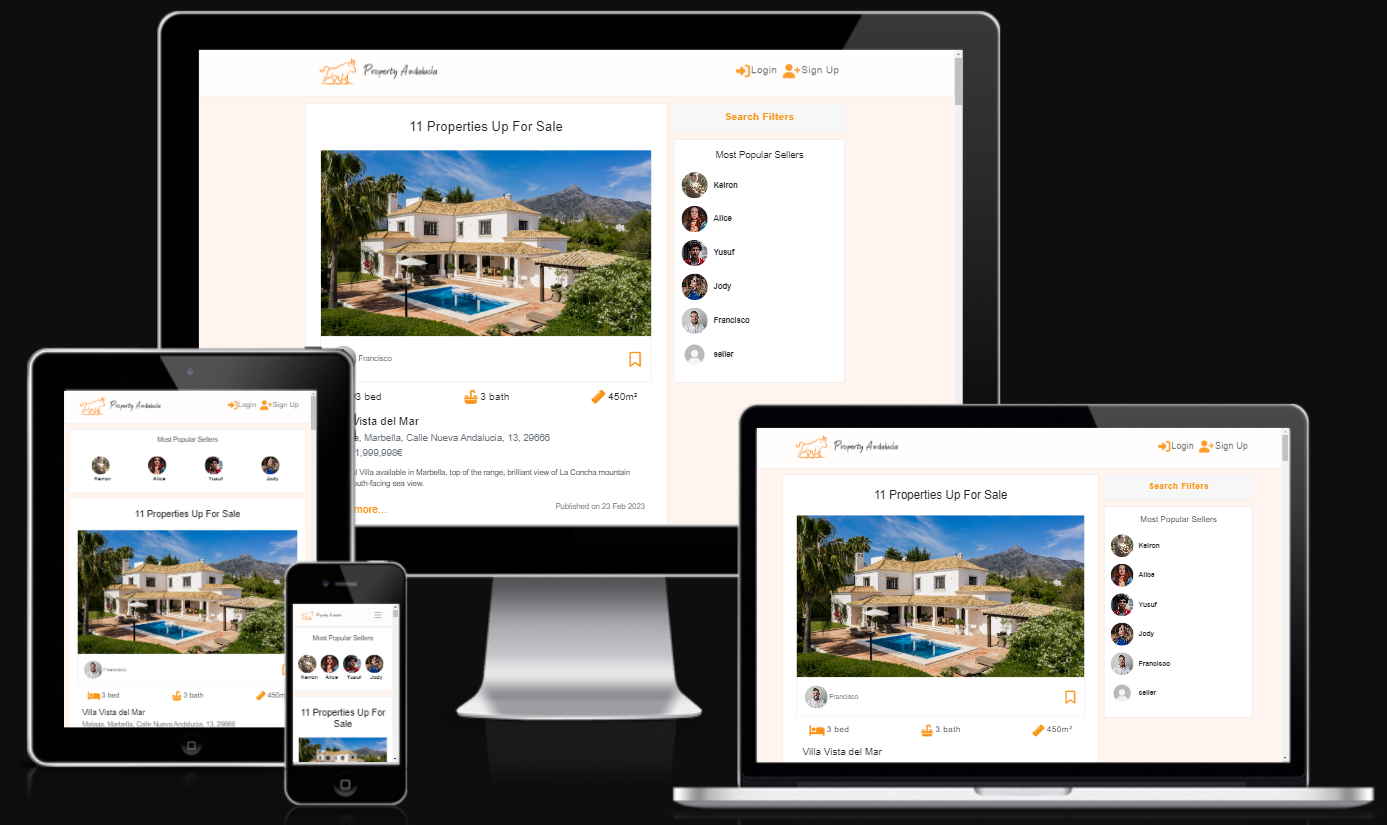
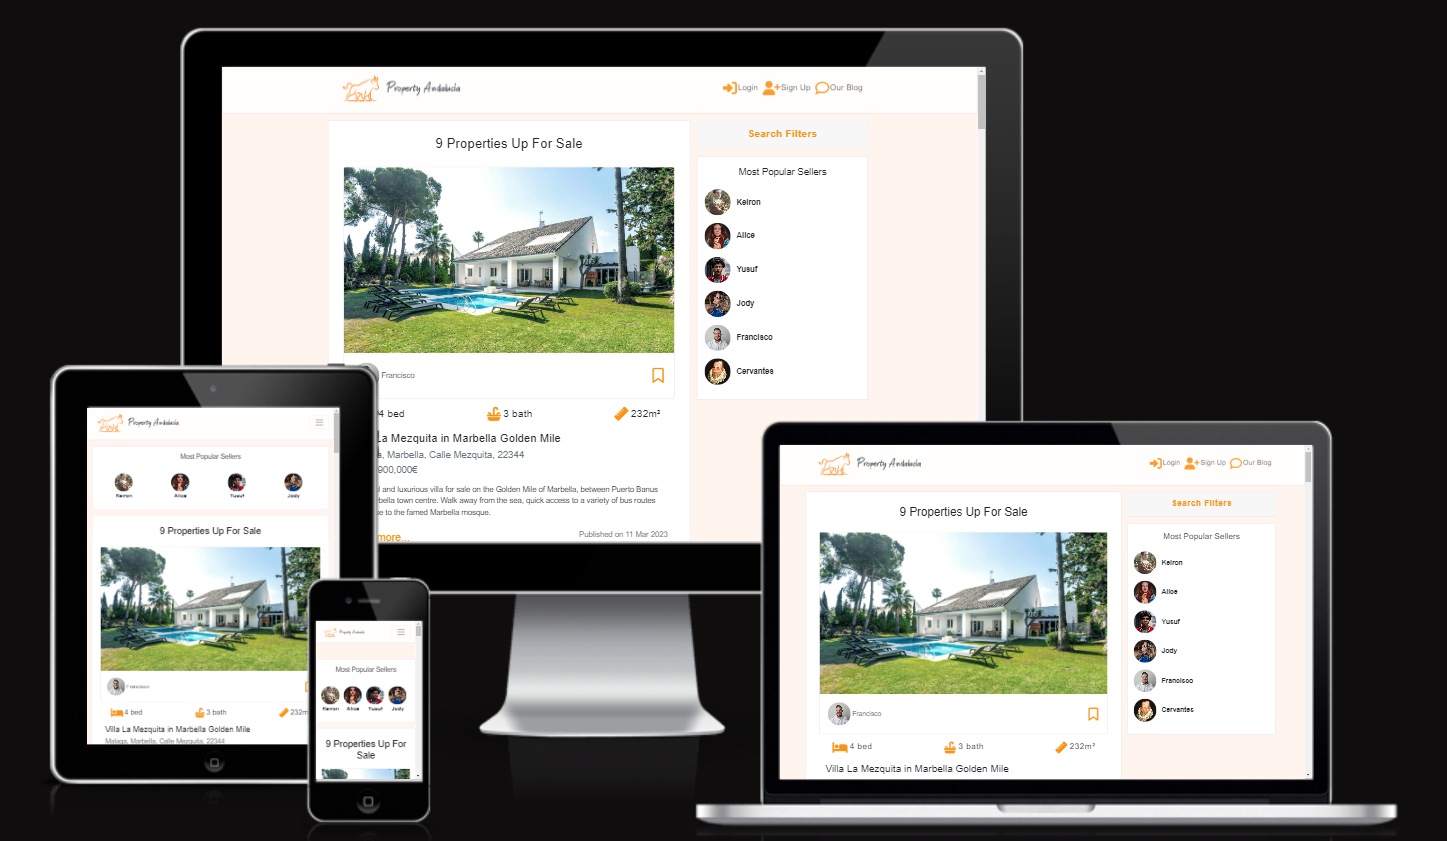
Readme commit: update with blog feature content

Changed region(s): [[0.0, 0.0, 0.9921, 1.0]]

diff --git a/README.md b/README.md
@@ -2,7 +2,7 @@
 
 ![am-i-responsive](/documentation/readme_images/design/am%20i%20responsive.png)
 
-Property Andalucia is a property marketplace platform designed for selling and buying property. It allows the user to create their own listings and sell their property. As a visitor you can also search for property using a variety of search filter methods. The users can register for the website as a seller or a buyer, and gain access to further features such as saving posts and following other users.
+Property Andalucia is a property marketplace platform designed for selling and buying property. It allows the user to create their own listings and sell their property. As a visitor you can also search for property using a variety of search filter methods. The users can register for the website as a seller or a buyer, and gain access to further features such as saving posts and following other users. It also contains a blog feature where users who are staff can published blog posts.
 
 This part of the project serves as the Frontend, created using React.js, which connects and interacts with the backend API through HTTP requests.
 
@@ -45,6 +45,11 @@ This part of the project serves as the Frontend, created using React.js, which c
         <li>[Follow Feed](#follow-feed)</li>
         <li>[Profile](#profile)</li>
         <li>[Edit Profile Form](#edit-profile-form)</li>
+        <li>[Blog Creation Form](#blog-creation-form)</li>
+        <li>[Blog Edit Form](#blog-edit-form)</li>
+        <li>[Blog List View](#blog-list-view)</li>
+        <li>[Search Feed](#search-feed)</li>
+        <li>[Blog Edit Form](#blog-edit-form)</li>
         <li>[Username and Password Forms](#username-and-password-forms)</li>
         <li>[No Results Found](#no-results-found)</li>
         </ul>
@@ -121,7 +126,7 @@ Epics, User Stories and Backend Tasks can be found in this GitHub repository pro
 
 ## **Web Structure**
 
-* Website is structured into 11 principal pages
+* Website is structured into 15 principal pages
 * All pages extend and produce a consistent style across the application
 * Pages are the following:
 
@@ -134,9 +139,14 @@ Epics, User Stories and Backend Tasks can be found in this GitHub repository pro
 | **Feed** | A list of all posts of followed accounts |
 | **Saved** | A list of all posts saved by the current user |
 | **Add Property** | A large form page where sellers can fill out their property data |
-| **Edit Property** | A large form page where sellers can modify pre-existing fields
+| **Edit Property** | A large form page where sellers can modify pre-existing fields |
+| **Post List** | A list view of the property posts featuring concise information |
 | **Post Detail** | A detailed view of the post featuring additional information |
 | **Search Filters** | A UI component where users are able to access a variety of search filter methods |
+| **Add Blog Post** | A form page where staff can create a blog post |
+| **Edit Blog Post** | A form page where staff can modify pre-existing fields for their blog post |
+| **Blog Post List** | A list view of all blog posts with a shortened description and search tab |
+| **Blog Detail** | A detailed view of the blog post featuring full description |
 | **User Profile** | A profile dashboard displaying information and user posts |
 | **Edit Profile** | A large form page where users can modify pre-existing input |
 | **Edit Username** | A form where the user can change their username |
@@ -177,11 +187,14 @@ The interactive icons found across the web application were imported from [Font 
 * State changes links depending on logged-in status versus logged-out
     * If a user signs up as a seller they will be able to see the link to 'Add Property', as well as the other collective iconed links: view 'Saved' properties, view property 'Feed' (property listed by other followed sellers), their profile and the 'Logout' icon.
     * If a user signs up as a non-seller they will be able to see all the aforementioned links save the 'Add Property' icon.
+    * If a user is staff of Property Andalucia, they will be able to see the 'Create post' icon.
+    * Additionally if a user is both staff and seller, they have access to both 'Add Property' and 'Create post' icons.
 * The brand logo is a clickable button that returns the user to home page.
 
 ![navbar-logged-out](/documentation/readme_images/features/navbar%20logged%20out.png)
 ![navbar-logged-in](/documentation/readme_images/features/navbar%20logged%20in.png)
 ![navbar-logged-in-2](/documentation/readme_images/features/navbar%20logged%20in%20(2).png)
+![navbar-logged-in-3](/documentation/readme_images/features/navbar%20logged%20in%20(3).png)
 
 * Designed to be responsive depending on screen size; links form a dropdown button when viewed on smaller viewport.
 ![navbar-small-viewport](/documentation/readme_images/features/navbar%20small%20viewport.png)
@@ -334,6 +347,52 @@ The interactive icons found across the web application were imported from [Font 
 
 ![edit-profile-form](/documentation/readme_images/features/edit%20profile%20form.png)
 
+#### **Blog Creation Form**
+
+* Authenticated staff users have exclusive access to the 'Create post' icon, which directs them to the blog creation form.
+* This form is not available to sellers, non-sellers and anonymous users, who are all redirected back to the home page if attempted entry.
+* Users are able to upload an image for their blog post
+* If the image field is left empty, an automated default image will be rendered from the API
+
+![blog-creation-form](/documentation/readme_images/features/blog%20creation%20form.png)
+
+#### **Blog Edit Form**
+
+* Edit blog form mimics the blog creation form, thus all of the fields are identical
+* The form contains pre-populated input and image fields, which are easily editable.
+* Save changes are evident from the moment of clicking the 'Save' button.
+
+![blog-edit-form](/documentation/readme_images/features/blog%20edit%20form.png)
+
+#### **Blog List View**
+
+* This view contains a shortened content field of blog posts, with a "Read more..." link.
+* All blog posts are ordered by creation date, the latest post being the top and first-seen post.
+* Features the publication date.
+* Features blog post owner avatar, which links to their profile.
+* Features blog post owner name for further information.
+
+![blog-list-view](/documentation/readme_images/features/blog%20list%20view.png)
+
+#### **Search Feed**
+
+* Search bar is available and accessible at the top of blog list view.
+* It can filtered post titles and blog post owner usernames.
+* It can be used by all users including anonymous users.
+
+![search-feed](/documentation/readme_images/features/search%20feed.png)
+
+#### **Blog Detail View**
+
+* A detail view version of the blog post which contains an expanded, full blog content feature.
+* It is individual and stand-alone.
+* If user is the blog post owner, there is a dropdown icon available with the edit and delete functionality.
+* Features the publication date.
+* Features blog post owner avatar, which links to their profile.
+* Features blog post owner name for further information.
+
+![blog-detail-view](/documentation/readme_images/features/blog%20detail%20view.png)
+
 #### **Username and Password Forms**
 
 * Username form contains functionality to change the username.
@@ -375,7 +434,7 @@ There are several components used and managed in this project and they are the f
     * The [react-google-maps/api](https://www.npmjs.com/package/@react-google-maps/api) package was used to create this component. An API key is also needed from Google Cloud.
 
 * MoreDropdown
-    * This component is used in the property detail view page, published notes and user profile. It is a UX improvement as it allows users to access a dropdown menu to be able to modify or delete their own data.
+    * This component is used in the property detail view page, published notes, user profile and blog detail view page. It is a UX improvement as it allows users to access a dropdown menu to be able to modify or delete their own data.
 
 * NavBar
     * The NavBar component is present on every page of the application. 
@@ -392,6 +451,7 @@ There are several components used and managed in this project and they are the f
 
 Ideas for possible future implementation are as follows:
 
+* ~~Blog section which features staff employed by the company that can produce blog posts with full CRUD functionality.~~
 * Implementation of a more active buyer account, i.e., buyer profiles should be more individual and particular to their nature
 * Implementation of more diversified search filters, such as being able to narrow down search results by size, state (new-build, renovated etc.), numbers of floors, by date of publication and so on
 * A direct messaging service where users can send private messages to another user
